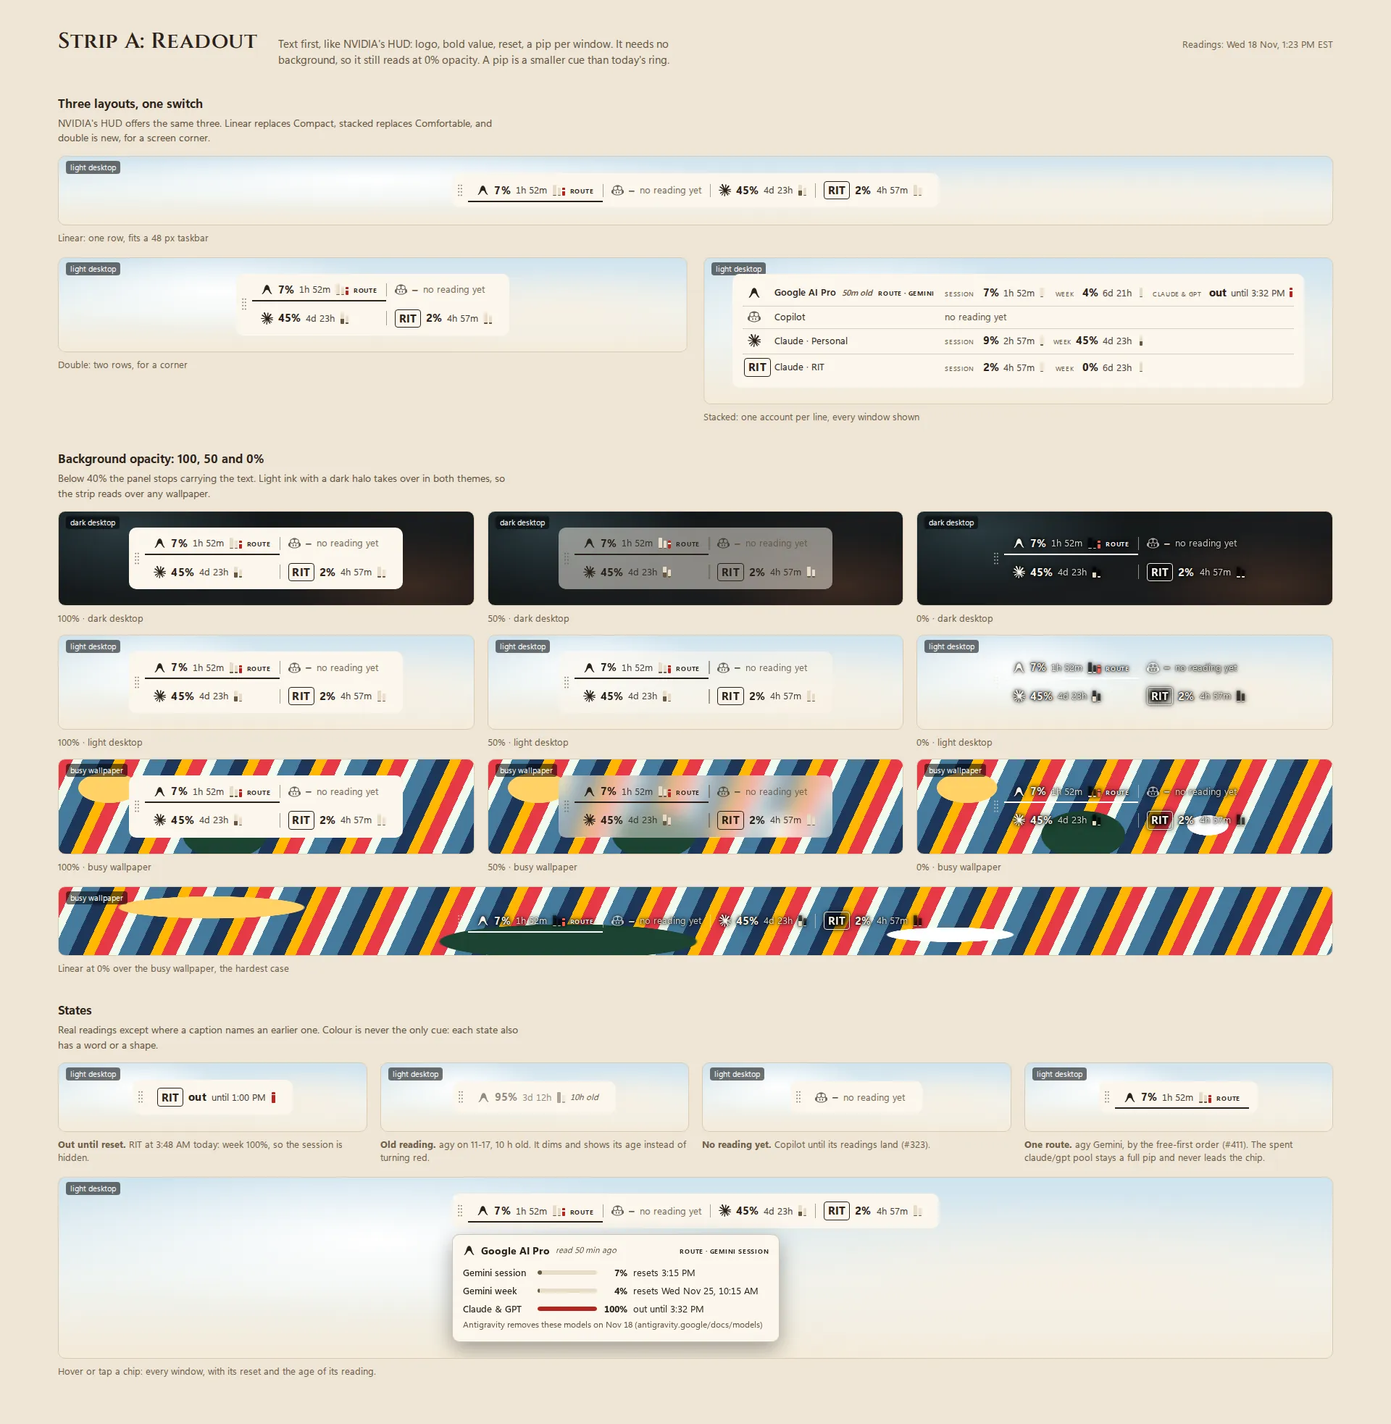
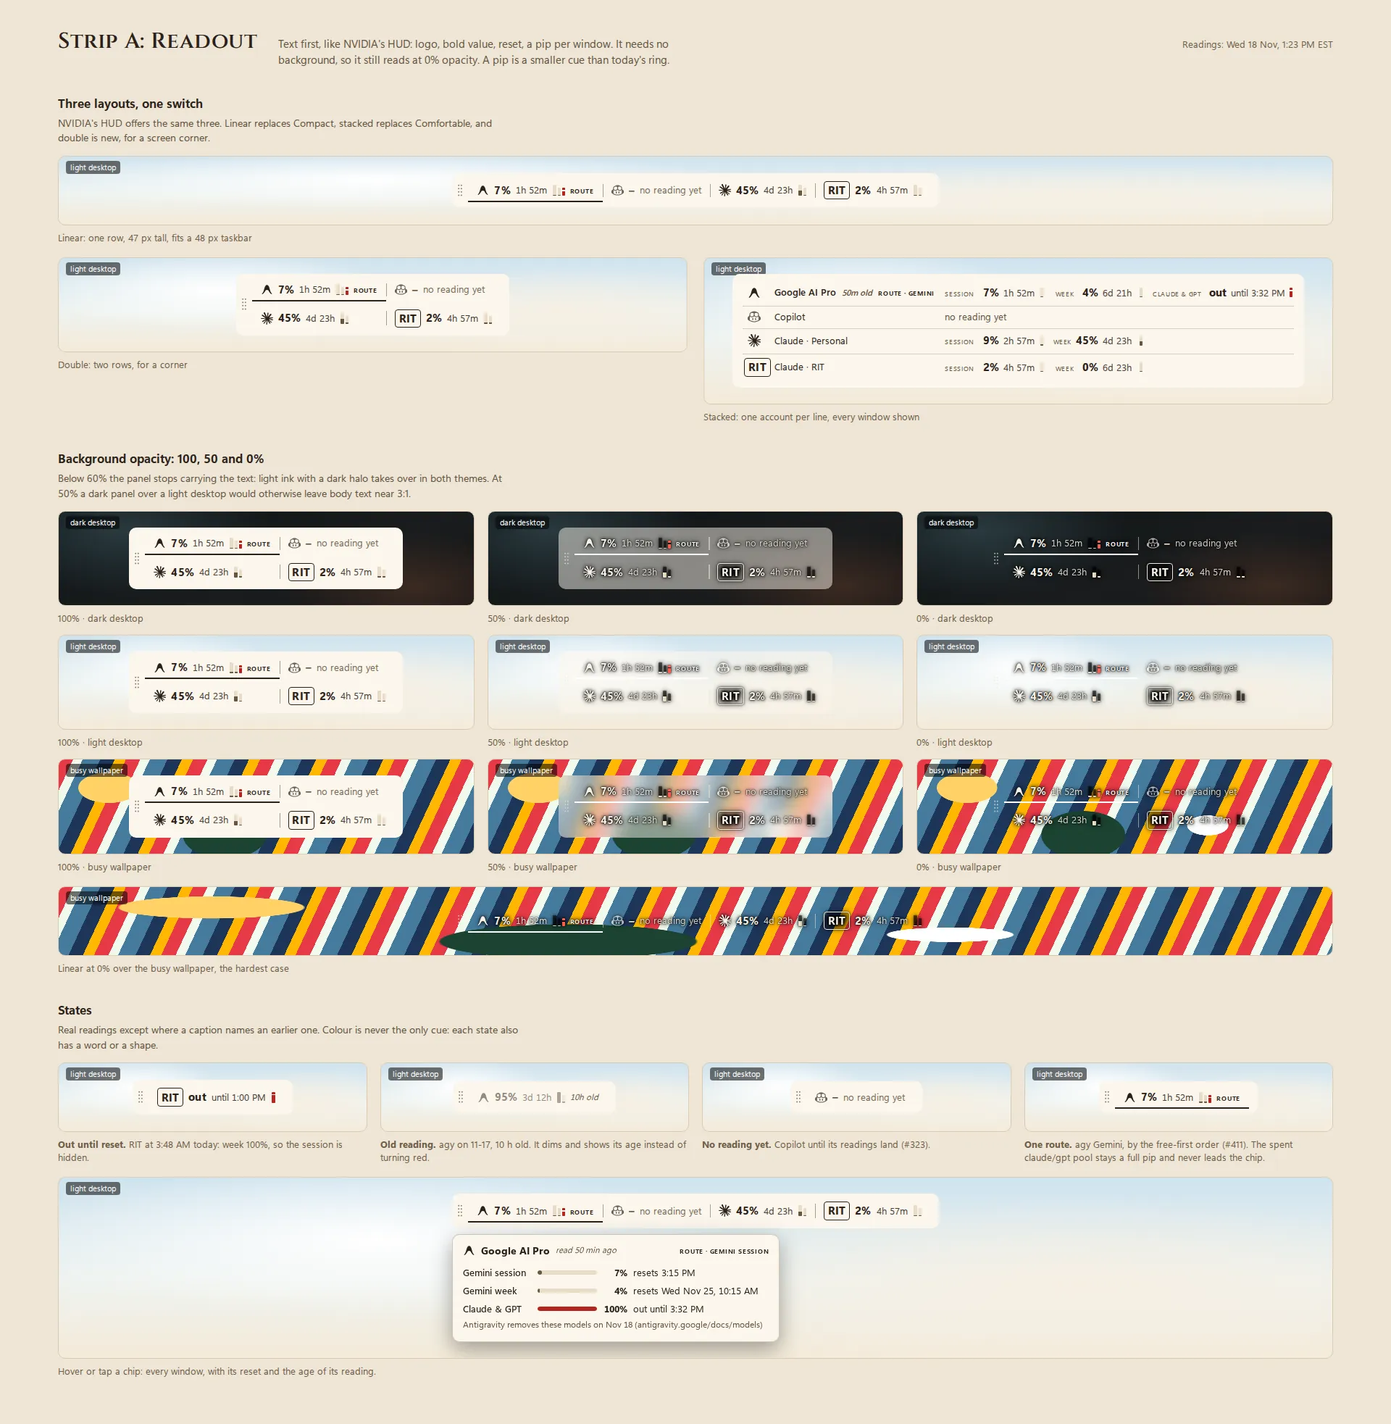
Mockups: review round 1 fixes
Halo from 60% opacity (50% over a light desktop left body text near 3:1),
per-variant taskbar captions (B's linear strip is 56 px), frozen source
readings in readings.js, RIT mark on the New Claude session button, a
Claude model state with Fable's own allowance spent, the text-only gauge
setting, and the review's wording matched to the shots.

Refs #421 #438 #440 #384

diff --git a/docs/mockups/2026-11-18/strip.js b/docs/mockups/2026-11-18/strip.js
@@ -10,7 +10,7 @@
   const spoken = (a) => {
     if (a.placeholder) return `${a.name}: no reading yet`;
     const L = window.lead(a);
-    const parts = (a.windows || []).map((w) => `${w.label} ${pctOf(w)}${w.pct >= 100 && w.at ? `, out until ${w.at}` : w.at ? `, resets ${w.at}` : ""}`);
+    const parts = (a.windows || []).filter((w) => !(L.out && w.key === "five_hour")).map((w) => `${w.label} ${pctOf(w)}${w.pct >= 100 && w.at ? `, out until ${w.at}` : w.at ? `, resets ${w.at}` : ""}`);
     return `${a.name}${L.out ? `, out until ${L.w.at}` : ""}: ${parts.join("; ")}`;
   };
   const isRoute = (a, opt) => opt.route !== false && a.route;
@@ -88,7 +88,7 @@
   const grip = `<span class="grip" aria-hidden="true">${ICON.grip}</span>`;
   const strip = (v, layout, accts, opt = {}) => {
     const op = opt.op ?? 100;
-    const halo = op < 40 ? " halo" : "";
+    const halo = op < 60 ? " halo" : ""; // at 50% a dark panel over a light desktop drops body text to 3.3:1
     const item = v === "a" ? itemA : itemB;
     const row = v === "a" ? rowA : rowB;
     const body =
@@ -113,11 +113,13 @@
   const COPY = {
     a: {
       name: "Strip A: Readout",
+      linear: "Linear: one row, 47 px tall, fits a 48 px taskbar",
       trade:
         "Text first, like NVIDIA's HUD: logo, bold value, reset, a pip per window. It needs no background, so it still reads at 0% opacity. A pip is a smaller cue than today's ring.",
     },
     b: {
       name: "Strip B: Dial",
+      linear: "Linear: one row, 56 px tall, so it overhangs a 48 px taskbar",
       trade:
         "Today's ring, now one per account with the logo inside it, a hairline bar per window, and each account's agents docked beside it. Strongest at a glance, but it needs a panel or a heavy halo.",
     },
@@ -135,13 +137,13 @@
 <h2>Three layouts, one switch</h2>
 <p>NVIDIA's HUD offers the same three. Linear replaces Compact, stacked replaces Comfortable, and double is new, for a screen corner.</p>
 <div class="layouts">
-  <figure class="ly-linear">${tile(wp, strip(v, "linear", A), "measure")}<figcaption class="cap">Linear: one row, fits a 48 px taskbar</figcaption></figure>
+  <figure class="ly-linear">${tile(wp, strip(v, "linear", A), "measure")}<figcaption class="cap">${c.linear}</figcaption></figure>
   <figure>${tile(wp, strip(v, "double", A))}<figcaption class="cap">Double: two rows, for a corner</figcaption></figure>
   <figure>${tile(wp, strip(v, "stacked", A))}<figcaption class="cap">Stacked: one account per line, every window shown</figcaption></figure>
 </div>
 
 <h2>Background opacity: 100, 50 and 0%</h2>
-<p>Below 40% the panel stops carrying the text. Light ink with a dark halo takes over in both themes, so the strip reads over any wallpaper.</p>
+<p>Below 60% the panel stops carrying the text: light ink with a dark halo takes over in both themes. At 50% a dark panel over a light desktop would otherwise leave body text near 3:1.</p>
 <div class="opgrid">
   ${["wp-dark", "wp-light", "wp-busy"].map((w) => [100, 50, 0].map((op) => `<figure>${tile(w, strip(v, "double", A, { op }))}<figcaption class="cap">${op}% · ${wpName[w]}</figcaption></figure>`).join("")).join("")}
 </div>

diff --git a/docs/mockups/2026-11-18/new-session-a.html b/docs/mockups/2026-11-18/new-session-a.html
@@ -23,7 +23,7 @@
     <div class="wbar-right">
       <div class="tools"><button>Ledger</button><button>Queue</button><button>Wrap up…</button></div>
       <span class="split" role="group" aria-label="New session">
-        <button class="primary" title="Claude on RIT: 98% of the session left"><span class="ico" data-i="claude"></span>New Claude session</button>
+        <button class="primary" title="Claude on RIT: 98% of the session left"><span class="ico" data-i="claude"></span>New Claude session <span class="mono" title="on RIT">RIT</span></button>
         <button class="primary caret" aria-haspopup="menu" aria-expanded="true" aria-label="Start another kind of session"><span class="ico" data-i="chev"></span></button>
       </span>
       <button class="gearb" aria-label="Settings"><span class="ico" data-i="gear"></span></button>
@@ -81,6 +81,7 @@
   <div><div class="eng" aria-disabled="true"><div class="eng-h"><span class="ico" data-i="copilot"></span><span class="eng-name">Copilot</span><span class="room"><button>Sign in</button></span><span class="eng-acct">Installed, not signed in</span></div></div><p class="cap">Signed out: the row stays, greyed, with the one step that fixes it.</p></div>
   <div><div class="eng" aria-disabled="true"><div class="eng-h"><span class="ico" data-i="agy"></span><span class="eng-name">Antigravity</span><span class="room"><button>How to install</button></span><span class="eng-acct">Not installed on this PC</span></div></div><p class="cap">Not installed: listed anyway, so a new user learns it exists.</p></div>
   <div><div class="eng"><div class="eng-h"><span class="ico" data-i="claude"></span><span class="eng-name">Claude on Personal</span><span class="room"><b>out</b>until Mon 1:00 PM</span><span class="eng-acct">Week spent: the row stays, Start is off</span></div></div><p class="cap">A spent account says when it returns; the launcher refuses it even from a stale menu.</p></div>
+  <div><div class="eng open"><div class="eng-h"><span class="ico" data-i="claude"></span><span class="eng-name">Claude on Personal</span><span class="room"><b>55%</b>week</span><span class="eng-acct">Personal account</span></div><div class="models" role="radiogroup" aria-label="Claude model"><div class="model on" role="radio" aria-checked="true"><span class="dot"></span>Opus<span></span></div><div class="model" role="radio" aria-checked="false"><span class="dot"></span>Sonnet<span></span></div><div class="model" role="radio" aria-checked="false" aria-disabled="true"><span class="dot"></span>Fable<span class="why">own allowance spent</span></div></div></div><p class="cap">Fable has its own allowance: once it is spent, Fable is off while Opus and Sonnet stay usable.</p></div>
 </div>
 </main>
 </body>

diff --git a/docs/mockups/2026-11-18/settings.js b/docs/mockups/2026-11-18/settings.js
@@ -23,7 +23,7 @@
   const faces = ["hephaestus", "athena", "hermes", "chronos"];
   const facePick = `<span class="faces-pick" role="radiogroup" aria-label="Default orchestrator">${faces
     .map((f, i) => `<button role="radio" aria-checked="${i === 0}" title="${f[0].toUpperCase() + f.slice(1)}"><img src="../../../src/fleet/faces/kourai/${f}-96.webp" alt=""><span>${f[0].toUpperCase() + f.slice(1)}</span></button>`)
-    .join("")}<button class="more" aria-label="All characters">+10</button></span>`;
+    .join("")}<button class="more" aria-label="All characters">+12</button></span>`;
 
   const accountIcons = [
     ["claude", "", "Claude · Personal", "Claude mark (built in)"],
@@ -68,7 +68,8 @@
       rows: [
         row("Card density", "How much each session card shows on the wall.", seg(["Auto", "Comfortable", "Compact"], "Compact", "Card density")),
         row("Gauge layout", "Linear fits a taskbar; double suits a screen corner; stacked shows every window.", seg(["Linear", "Double", "Stacked"], "Linear", "Gauge layout")),
-        row("Gauge background opacity", "Below 40% the text gets a dark halo so it reads over any wallpaper.", slider(80)),
+        row("Gauge background opacity", "Below 60% the text gets a dark halo so it reads over the wallpaper.", slider(80)),
+        row("Text-only gauge", "Logo, value and reset only: no rings or bars (#438).", toggle(false, "Text-only gauge")),
         row("Light or dark", "The wall and the gauge follow Windows unless you pick one.", select("Match Windows", "Light or dark")),
       ],
     },
@@ -110,7 +111,7 @@
     {
       id: "system", icon: "monitor", title: "System",
       rows: [
-        row("Start with Windows", "", toggle(true, "Start with Windows")),
+        row("Start with Windows", "Open the gauge when you sign in to Windows.", toggle(true, "Start with Windows")),
         row("Phone wall", "Serve the wall to your phone over Tailscale.", toggle(true, "Phone wall")),
         row("Gauge position", "Put the gauge back where it started, or make where it is now its home.", `${btn("Reset position", "small")} ${btn("Set home here", "small")}`),
       ],

diff --git a/docs/mockups/2026-11-18/readings.js b/docs/mockups/2026-11-18/readings.js
@@ -3,6 +3,13 @@
 // %LOCALAPPDATA%\dev.ajsoftworks.klepsydra\accounts\<id>\*.json.
 // Percentages are the readings' used_percentage, rounded; reset times are
 // their resets_at in local time; "in" is resets_at minus 1:23 PM.
+// klepsydra rewrites a session's file in place, so the files on disk move on;
+// SOURCE freezes what each one held when it was read (accounts/<id>/<session>.json).
+window.SOURCE = {
+  personal: { session: "d1561ead", written_at: 1795026200, five_hour: [9, 1795036800], seven_day: [45, 1795456800] },
+  rit: { session: "b02de147", written_at: 1795026210, five_hour: [2, 1795044000], seven_day: [0, 1795629600] },
+  agy: { session: "0e65e748", written_at: 1795023195, five_hour: [7.2, 1795032916], seven_day: [4.06, 1795619716], claude_gpt: [100, 1795033968] },
+};
 // Copilot has no reading yet (#323); its chip is a labelled placeholder.
 // Order is the route order (gauge.js ROUTE_ORDER): agy, Copilot, API credit
 // (no reading on this PC), Claude subscription.
@@ -97,7 +104,7 @@ window.lead = (acct) => {
 };
 
 window.ageText = (min) => (min >= 120 ? `${Math.round(min / 60)}h old` : min >= 30 ? `${min}m old` : "");
-window.staleAt = 180; // minutes: past this a reading dims; between 30 and 180 it shows its age
+window.staleAt = 180; // minutes: past this a reading dims and its chip shows its age; younger ages show only in stacked and hover
 
 window.iconHTML = (acct) =>
   acct.mono ? `<span class="mono" aria-hidden="true">${acct.mono}</span>` : `<span class="ico">${window.ICON[acct.icon]}</span>`;

diff --git a/docs/mockups/2026-11-18/new-session-b.html b/docs/mockups/2026-11-18/new-session-b.html
@@ -62,6 +62,7 @@
   <div><div class="tiles" style="grid-template-columns:1fr"><span class="tile" aria-disabled="true"><span class="bigico" data-i="copilot"></span><span class="tn">Copilot</span>Installed, not signed in<button>Sign in</button></span></div><p class="cap">Signed out: the tile stays, with the one step that fixes it.</p></div>
   <div><div class="tiles" style="grid-template-columns:1fr"><span class="tile" aria-disabled="true"><span class="bigico" data-i="agy"></span><span class="tn">Antigravity</span>Not installed on this PC<button>How to install</button></span></div><p class="cap">Not installed: listed anyway, so a new user learns it exists.</p></div>
   <div><div class="tiles" style="grid-template-columns:1fr"><span class="tile" aria-disabled="true"><span class="bigico" data-i="claude"></span><span class="tn">Claude</span>Personal<span class="roomline"><b>out</b><span class="tbar" style="--p:0"><i></i></span></span>week spent · until Mon 1:00 PM</span></div><p class="cap">A spent account says when it returns.</p></div>
+  <div><div class="chips" role="radiogroup" aria-label="Claude model"><span class="chip" role="radio" aria-checked="true">Opus</span><span class="chip" role="radio" aria-checked="false">Sonnet</span><span class="chip" role="radio" aria-checked="false" aria-disabled="true">Fable · own allowance spent</span></div><p class="cap">Claude's models: once Fable's own allowance is spent, Fable is off while Opus and Sonnet stay usable.</p></div>
 </div>
 </main>
 </body>

diff --git a/docs/mockups/2026-11-18/ns.css b/docs/mockups/2026-11-18/ns.css
@@ -33,6 +33,7 @@ button .ico { width: 15px; height: 15px; }
 .split > button:first-child { border-top-right-radius: 0; border-bottom-right-radius: 0; }
 .split > button.caret { border-top-left-radius: 0; border-bottom-left-radius: 0; border-left: 1px solid var(--page); padding: 0 9px; }
 .split > button.caret .ico { width: 14px; height: 14px; }
+.split .mono { font-size: 10px; border-width: 1.2px; padding: 0.25em 0.3em; }
 .split > button.caret[aria-expanded="true"] { box-shadow: inset 0 0 0 2px var(--page), 0 0 0 2px var(--ink); }
 
 /* ── Variant A: split button + engine menu ── */
@@ -100,7 +101,7 @@ button .ico { width: 15px; height: 15px; }
 .sheet-foot .note { margin-right: auto; font-size: 12.5px; color: var(--ink-dim); }
 
 /* ── State examples under each mock ── */
-.legend { display: grid; grid-template-columns: repeat(3, 1fr); gap: 14px; margin-top: 18px; }
+.legend { display: grid; grid-template-columns: repeat(4, 1fr); gap: 14px; margin-top: 18px; }
 .legend > div { background: var(--page-2); border: 1px solid var(--line); border-radius: 10px; padding: 10px; }
 .legend .cap { margin: 6px 4px 0; }
 
@@ -140,3 +141,4 @@ button .ico { width: 15px; height: 15px; }
   .room { grid-row: auto; grid-column: 2 / -1; text-align: left; }
   .room b { display: inline; margin-right: 6px; }
 }
+@media (max-width: 1100px) and (min-width: 641px) { .legend { grid-template-columns: 1fr 1fr; } }

diff --git a/docs/mockups/2026-11-18/strip.css b/docs/mockups/2026-11-18/strip.css
@@ -103,7 +103,7 @@ figure { min-width: 0; }
 .sb-row .body { display: grid; gap: 3px; }
 .sb-row .nm { display: inline-flex; gap: 8px; align-items: center; font-size: 13px; font-weight: 600; }
 .sb-row .faces { margin-left: auto; }
-.sb-row .line { display: grid; grid-template-columns: 96px 1fr 40px 74px; gap: 8px; align-items: center; font-size: 12.5px; }
+.sb-row .line { display: grid; grid-template-columns: 96px 1fr 40px 92px; gap: 8px; align-items: center; font-size: 12.5px; }
 .sb-row .lbl { color: var(--panel-dim); }
 .sb-row .line b { font-size: 14px; text-align: right; }
 .sb-row .line .t { opacity: 0.86; }

diff --git a/docs/mockups/2026-11-18/mock.css b/docs/mockups/2026-11-18/mock.css
@@ -31,7 +31,7 @@
   --button-hover: #372d21;
   --gold: #c9a24a;
 
-  /* style.css, the gauge bar */
+  /* style.css, the gauge bar (--panel-dim and --route are wall.css's: the gauge's own dim, #a09079, is too faint once see-through) */
   --panel: #14100b; /* --panel-bg's colour; its alpha is the opacity setting (#438) */
   --panel-ink: #f2eadf;
   --panel-dim: #b9a993;

diff --git a/docs/mockups/2026-11-18/review.md b/docs/mockups/2026-11-18/review.md
@@ -1,7 +1,7 @@
 <!-- budget: 700 words -->
 # klepsydra design pass, 2026-11-18
 
-Mockups for the gauge strip (#421, #438), + New session (#440) and the settings page (#384), for you to pick from before anything is built. Every reading is the real one from 1:23 PM today. Each shot is the full page at 1920 wide; phone (390) shots sit beside them in the same folder. PR: (draft PR link).
+Mockups for the gauge strip (#421, #438), + New session (#440) and the settings page (#384), for you to pick from before anything is built. Every reading is the real one from 1:23 PM today. Each shot is the full page at 1920 wide; phone (390) shots sit beside them in the same folder. PR: [klepsydra#459](https://github.com/ajbarea/klepsydra/pull/459).
 
 ## Gauge strip
 
@@ -9,11 +9,11 @@ Mockups for the gauge strip (#421, #438), + New session (#440) and the settings 
 |---|---|
 | [![A dark](shots/design-gauge-a-1920-dark.webp)](shots/design-gauge-a-1920-dark.webp) | [![B dark](shots/design-gauge-b-1920-dark.webp)](shots/design-gauge-b-1920-dark.webp) |
 | [light](shots/design-gauge-a-1920-light.webp) · [phone dark](shots/design-gauge-a-390-dark.webp) · [phone light](shots/design-gauge-a-390-light.webp) | [light](shots/design-gauge-b-1920-light.webp) · [phone dark](shots/design-gauge-b-390-dark.webp) · [phone light](shots/design-gauge-b-390-light.webp) |
-| Text first, like NVIDIA's HUD: logo, bold value, reset, one small pip per window. It reads at 0% opacity over any wallpaper. The trade: a pip is a smaller status cue than a ring. | Today's ring, one per account, with the logo inside it and each account's agents docked beside it. Strongest at a glance. The trade: its hairline bars fade below 40% opacity, so it wants a panel. |
+| Text first, like NVIDIA's HUD: logo, bold value, reset, one small pip per window. It reads at 0% opacity over the dark and light desktops; over a busy wallpaper the small reset times thin out. The trade: a pip is a smaller status cue than a ring. | Today's ring, one per account, with the logo inside it and each account's agents docked beside it. Strongest at a glance. The trade: its hairline bars fade once the panel goes, and at 56 px it overhangs a 48 px taskbar (A is 47 px). |
 
-Both have the three NVIDIA layouts on one switch (linear, double, stacked), the 100/50/0% opacity grid over dark, light and busy wallpaper, and the states: out until reset (session hidden), an old reading dimmed with its age, the Copilot placeholder, and one route mark (agy Gemini). Linear width with 4 chips: **671 px (A), 634 px (B)**, against about 1,700 px for today's 7 meters. Neither layout changes width between 1920 and 1366.
+Both have the three NVIDIA layouts on one switch (linear, double, stacked), and the 100/50/0% opacity grid over dark, light and busy wallpaper. Below 60% the text switches to light ink with a dark halo, because at 50% a dark panel over a light desktop leaves body text near 3:1. Both also show the states: out until reset (session hidden), an old reading dimmed with its age, the Copilot placeholder, and one route mark (agy Gemini). Linear width with 4 chips: **671 px (A), 634 px (B)**, against about 1,700 px for today's 7 meters. Neither layout changes width between 1920 and 1366.
 
-**Recommendation: A, with B's docked faces.** #438 makes 0% a real setting, and only A still reads there. A is also the less wordy one you asked for (logo, value, time). The faces docked to their account fix the "separate avatars" problem in #421 and move over to A unchanged.
+**Recommendation: A, with B's docked faces.** #438 makes 0% a real setting, and A reads best there. A is also the less wordy one you asked for (logo, value, time). The faces docked to their account fix the "separate avatars" problem in #421 and move over to A unchanged.
 
 ## + New session
 
@@ -21,9 +21,9 @@ Both have the three NVIDIA layouts on one switch (linear, double, stacked), the 
 |---|---|
 | [![A dark](shots/design-new-session-a-1920-dark.webp)](shots/design-new-session-a-1920-dark.webp) | [![B dark](shots/design-new-session-b-1920-dark.webp)](shots/design-new-session-b-1920-dark.webp) |
 | [light](shots/design-new-session-a-1920-light.webp) · [phone dark](shots/design-new-session-a-390-dark.webp) · [phone light](shots/design-new-session-a-390-light.webp) | [light](shots/design-new-session-b-1920-light.webp) · [phone dark](shots/design-new-session-b-390-dark.webp) · [phone light](shots/design-new-session-b-390-light.webp) |
-| "New Claude session" plus a menu row per other engine, with its account, room left, models and Recommended mark. The trade: the menu grows with each engine. | The button names engine and account; the caret opens tiles to compare engines and model chips. The trade: one more click, and the picker is 720 px wide. |
+| "New Claude session" plus a menu row per other engine, with its account, room left, models and Recommended mark. The trade: the menu grows with each engine. | The button names engine and account; the caret opens tiles to compare engines and model chips. The trade: one more click, a 720 px picker, and the default reappears as a tile, which split-button guidance advises against. |
 
-Both show agy's real `agy models` list, with the spent Claude & GPT group disabled and saying when it returns. Both also show the signed-out, not-installed and spent-account rows.
+Both show agy's real `agy models` list, with the spent Claude & GPT group disabled and saying when it returns. Both also show the signed-out, not-installed and spent-account rows, and Claude's models with Fable's own allowance spent (Fable off, Opus and Sonnet usable).
 
 **Recommendation: A.** It follows every split-button rule in #440: it names the default action, does not repeat the default in the menu, and keeps the button and caret separately reachable. It is also the smallest change from today.
 
@@ -35,9 +35,9 @@ Both show agy's real `agy models` list, with the spent Claude & GPT group disabl
 | [light](shots/design-settings-a-1920-light.webp) · [phone dark](shots/design-settings-a-390-dark.webp) · [phone light](shots/design-settings-a-390-light.webp) | [light](shots/design-settings-b-1920-light.webp) · [phone dark](shots/design-settings-b-390-dark.webp) · [phone light](shots/design-settings-b-390-light.webp) |
 | Spotify's pattern: one page, bold section headings, the control at the right, search at the top. The trade: the 16-row sisters list makes it long. | Windows 11's pattern: a section rail with search, one card per setting. The trade: a second navigation system inside a small app. |
 
-Both hold every setting from the tray and the gear (#384's inventory), plus gauge layout and opacity, account icons, route order, the new-session default and the sisters editor. The editor shows the real 16 projects from `~/.claude/techne.toml` (read only), each with its status and kind; all 16 have a clone. The tray shrinks to Open wall, Settings and Quit.
+Both hold every setting from the tray and the gear (#384's inventory), plus gauge layout, opacity and text-only mode, account icons, route order, the new-session default and the sisters editor. The editor shows the real 16 projects from `~/.claude/techne.toml` (read only), each with its status and kind; all 16 have a clone. The tray shrinks to Open wall, Settings and Quit.
 
-**Recommendation: A**, the Spotify page you named, with the sisters list folded under a "16 projects" expander so the page stays short. Seven sections fit one scroll; a rail pays off only with many more.
+**Recommendation: A**, the Spotify page you named, with the sisters list folded under a "16 projects" expander (not drawn here) so the page stays short. Seven sections fit one scroll; a rail pays off only with many more.
 
 <details><summary>Sources and fidelity</summary>
 
